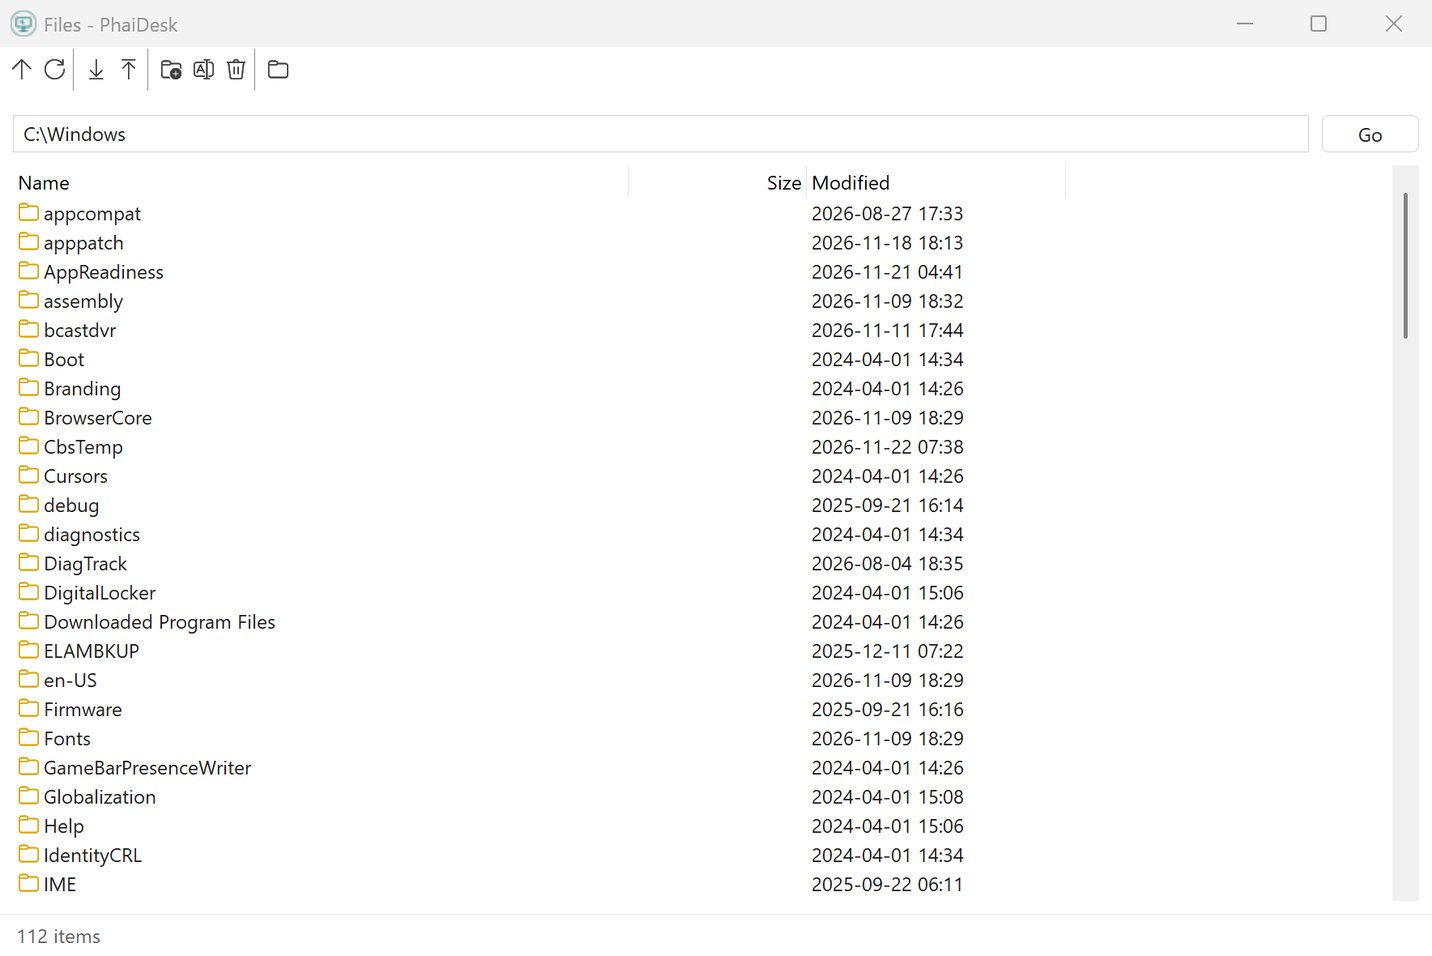
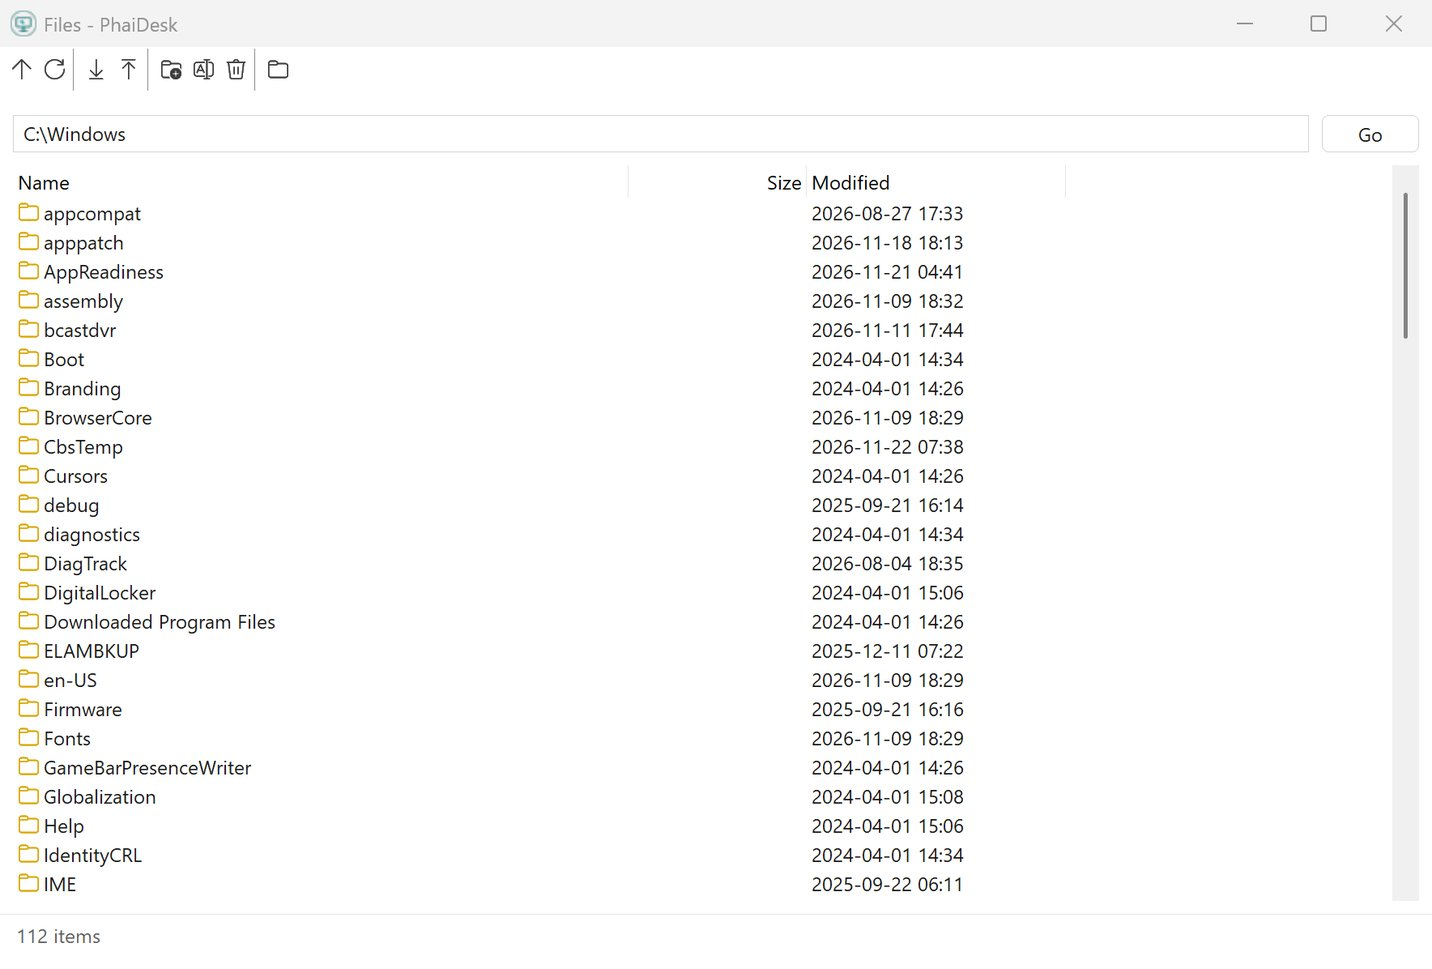
phai-studio.monrak.net: Phai Desk in the same slider as the screens - 7 pictures, each window designed in Phai Studio and then running, and its code; the lightbox walks only the clicked slider's pictures. Fixes the page stopping at Download (a loop had taken the counts' variable)

diff --git a/site/assets/site.js b/site/assets/site.js
@@ -5,12 +5,12 @@
 // (its number, name, line and points) follows.
 // It waits while the pointer or focus is on it, while it is off screen or the tab hidden, and never
 // moves by itself for a reader who asked for less motion. It never scrolls the page.
-(() => {
-    const box = document.querySelector('.slider');
+document.querySelectorAll('.gallery').forEach((gal) => {
+    const box = gal.querySelector('.slider');
     if (!box) return;
     const track = box.querySelector('.slides');
     const slides = [...track.querySelectorAll('.slide')];
-    const cap = document.getElementById('shot-caption');
+    const cap = gal.querySelector('.shot-info');
     const n = slides.length;
     const EVERY = 5000;
     let at = 0;
@@ -51,42 +51,14 @@
         const dx = e.changedTouches[0].clientX - x0;
         if (Math.abs(dx) > 40) { go(at + (dx < 0 ? 1 : -1)); start(); }
     });
-})();
-
-// Phai Desk's windows: one fades into the next every few seconds (not under the pointer, off screen,
-// or for less motion); the dots choose one.
-(() => {
-    const box = document.querySelector('.made-shots');
-    if (!box) return;
-    const shots = [...box.querySelectorAll('.made-shot')];
-    const dots = [...box.querySelectorAll('.made-dots button')];
-    const cap = box.querySelector('.made-cap');
-    let at = 0, held = false, seen = false, timer = 0;
-    const go = (i) => {
-        at = (i + shots.length) % shots.length;
-        shots.forEach((s, k) => s.classList.toggle('on', k === at));
-        dots.forEach((d, k) => d.classList.toggle('on', k === at));
-        cap.textContent = shots[at].dataset.caption;
-        const next = shots[(at + 1) % shots.length].querySelector('img');
-        if (next) next.loading = 'eager';
-    };
-    const still = window.matchMedia('(prefers-reduced-motion: reduce)');
-    const start = () => {
-        clearInterval(timer);
-        if (!still.matches && !held && seen && !document.hidden) timer = setInterval(() => go(at + 1), 4500);
-    };
-    dots.forEach((d, k) => d.onclick = () => { go(k); start(); });
-    box.addEventListener('mouseenter', () => { held = true; start(); });
-    box.addEventListener('mouseleave', () => { held = false; start(); });
-    document.addEventListener('visibilitychange', start);
-    new IntersectionObserver((es) => { seen = es[0].isIntersecting; start(); }, { threshold: 0.3 }).observe(box);
-})();
+});
 
 // gallery: a picture opens large; arrows or keys move, Esc or a click outside closes
 (() => {
-    const links = [...document.querySelectorAll('[data-gallery]')];
+    const all = [...document.querySelectorAll('[data-gallery]')];
     const box = document.getElementById('lightbox');
-    if (!box || !links.length) return;
+    if (!box || !all.length) return;
+    let links = all;
     const img = box.querySelector('img');
     const cap = box.querySelector('.lb-caption');
     const stage = box.querySelector('.lb-stage');
@@ -97,9 +69,10 @@
         img.alt = cap.textContent = links[at].dataset.caption + '  (' + (at + 1) + ' / ' + links.length + ')';
     };
     const close = () => { box.hidden = true; document.body.style.overflow = ''; };
-    links.forEach((a, i) => a.addEventListener('click', (e) => {
+    all.forEach((a) => a.addEventListener('click', (e) => {
         e.preventDefault();
-        show(i);
+        links = all.filter((x) => x.dataset.gallery === a.dataset.gallery);
+        show(links.indexOf(a));
         box.hidden = false;
         document.body.style.overflow = 'hidden';
     }));

diff --git a/site/assets/site.css b/site/assets/site.css
@@ -237,9 +237,6 @@ h3.part .ti { color: var(--green); font-size: 1.3rem; }
 h3.part + .muted { margin: 0 0 16px; }
 .card.tool .icon img { width: 26px; height: 26px; }
 .card.tool p { font-size: .92rem; }
-.card.made { display: grid; grid-template-columns: 3fr 2fr; gap: 28px; align-items: center; }
-.made-shot img { display: block; width: 100%; height: auto; border-radius: 10px; border: 1px solid var(--line); box-shadow: 0 12px 32px rgba(15, 60, 40, .12); }
-@media (max-width: 760px) { .card.made { grid-template-columns: 1fr; } }
 /* The guide's cards: the icon on the left, the name and what it is beside it. */
 #learn .card.lesson { display: grid; grid-template-columns: 44px 1fr; grid-template-rows: auto auto; align-content: center; column-gap: 14px; }
 #learn .card.lesson .icon { grid-row: 1 / 3; align-self: center; margin-bottom: 0; }
@@ -278,15 +275,9 @@ h3.part + .muted { margin: 0 0 16px; }
 @media (prefers-reduced-motion: reduce) { .shot-info.fresh > * { animation: none; } }
 @media (max-width: 860px) { .gallery { grid-template-columns: 1fr; gap: 18px; } .shot-info { min-height: 0; } }
 .slider { overflow: clip; clip-path: inset(0 round var(--radius)); }
-/* Phai Desk: its windows one after another, a line under each; then the guide's example programs. */
-.made-shots { position: relative; display: grid; }
-.made-shots .made-shot { grid-area: 1 / 1; opacity: 0; visibility: hidden; transition: opacity .6s ease, visibility 0s .6s; }
-.made-shots .made-shot.on { opacity: 1; visibility: visible; transition: opacity .6s ease; }
-.made-shots .made-shot img { aspect-ratio: 1432 / 980; object-fit: contain; object-position: center top; background: transparent; box-shadow: none; border: 0; }
-.made-cap { grid-area: 2 / 1; margin: 12px 0 0; color: var(--muted); font-size: .92rem; min-height: 3em; }
-.made-dots { grid-area: 3 / 1; display: flex; gap: 6px; }
-.made-dots button { width: 8px; height: 8px; padding: 0; border: 0; border-radius: 4px; background: #c9ddd2; cursor: pointer; transition: width .3s, background .3s; }
-.made-dots button.on { width: 22px; background: var(--green); }
+/* Phai Desk: one line about it, then the same slider as the screens. */
+.made-lead { margin: -8px 0 22px; max-width: 70ch; color: var(--muted); }
+.made-lead b { color: var(--ink); }
 .grid.demos { grid-auto-rows: auto; }
 .card.demo { display: flex; flex-direction: column; gap: 2px; padding: 10px 10px 12px; }
 .card.demo .demo-shot { display: block; aspect-ratio: 840 / 578; margin-bottom: 8px; overflow: hidden; border-radius: 8px; border: 1px solid var(--line); background: #fff; }

diff --git a/site/index.php b/site/index.php
@@ -107,11 +107,23 @@ $T = $th ? [
     'madeH' => 'สร้างด้วย Phai Studio', 'madeSub' => 'โปรแกรมจริงที่ออกแบบและเขียนด้วย Phai Studio ทั้งตัว',
     'madeName' => 'คอนโซลของ Phai Desk', 'madeP' => 'โปรแกรมรีโมทและดูแลคอมพิวเตอร์ในสำนักงาน ทั้ง 7 หน้าต่าง (รายการเครื่อง ดูจอ ส่งไฟล์ แชท โปรแกรมในเครื่อง log) ออกแบบด้วยการลากวางใน Phai Studio แล้วทำตัวติดตั้งด้วย Publish',
     'madeLink' => 'รู้จัก Phai Desk',
-    'madeShots' => [
-        ['desk-main', 'คอมพิวเตอร์ทุกเครื่องในสำนักงาน: สีเขียวออนไลน์ สีเทาปิดอยู่ สีแดงกำลังขอความช่วยเหลือ คลิกขวาเพื่อรีโมท แชท หรือเปิดไฟล์'],
-        ['phaidesk', 'โปรแกรมในเครื่อง: รายการทุกโปรแกรมที่ลงไว้ ค้นหาได้'],
-        ['desk-files', 'ไฟล์: เปิดดู ดาวน์โหลด อัปโหลด และจัดการไฟล์ของเครื่องที่ดูแล'],
-        ['desk-project', 'โปรเจกต์ Phai Desk ใน Phai Studio: ทุกหน้าต่างออกแบบด้วยการลากวาง'],
+    'deskShots' => [
+        ['desk-main', 'คอมทุกเครื่องในสำนักงาน', 'หน้าต่างหลักของ Phai Desk ตอนโปรแกรมทำงาน'],
+        ['desk-design-software', 'ออกแบบหน้าต่าง "โปรแกรมในเครื่อง"', 'หน้าต่างเดียวกันนี้ในตัวออกแบบของ Phai Studio'],
+        ['phaidesk', 'โปรแกรมในเครื่อง ตอนทำงานจริง', 'ฟอร์มที่ออกแบบไว้ กลายเป็นโปรแกรมที่อ่านรายการจริงของเครื่อง'],
+        ['desk-design-files', 'ออกแบบหน้าต่าง "ไฟล์"', 'แถบเครื่องมือ ช่องที่อยู่ และรายการไฟล์'],
+        ['desk-files', 'ไฟล์ ตอนทำงานจริง', 'เปิดดูไฟล์ของเครื่องที่ดูแลอยู่'],
+        ['desk-code', 'โค้ดของหน้าต่าง "ไฟล์"', 'เขียน Rust ในตัวแก้โค้ดของ Phai Studio'],
+        ['desk-project', 'หน้าต่างแชท ในตัวออกแบบ', 'ทั้ง 7 หน้าต่างของ Phai Desk เป็นไฟล์ .phaiform ในโปรเจกต์เดียว'],
+    ],
+    'deskMore' => [
+        'desk-main' => ['ไอคอนเขียว = ออนไลน์ เทา = ปิดอยู่ แดง = ขอความช่วยเหลือ', 'ใต้ไอคอนบอกชื่อเครื่องและคนที่ใช้อยู่', 'คลิกขวาเพื่อรีโมทดูจอ แชท หรือเปิดไฟล์'],
+        'desk-design-software' => ['ลากช่องค้นหา ป้าย และตารางลงบนฟอร์ม', 'ตารางแสดงข้อมูลตัวอย่างระหว่างออกแบบ', 'ไฟล์ทั้งหมดของ Phai Desk อยู่ในหน้าต่าง Project ทางขวา'],
+        'phaidesk' => ['ทุกโปรแกรมที่ลงไว้ พร้อมรุ่นและผู้ผลิต', 'พิมพ์ในช่องค้นหาแล้วกรองทันที', 'โค้ดที่อ่านรายการเขียนด้วย Rust ในไฟล์ของฟอร์มนั้น'],
+        'desk-design-files' => ['ปุ่มขึ้นโฟลเดอร์ ดาวน์โหลด อัปโหลด และลบ อยู่บนแถบเครื่องมือ', 'กล่องเลือกไฟล์สำหรับอัปโหลดวางไว้ใต้ฟอร์ม', 'ตั้งค่าทุกอย่างในหน้าต่าง Properties'],
+        'desk-files' => ['ดับเบิลคลิกเพื่อเข้าโฟลเดอร์', 'ดาวน์โหลด อัปโหลด และลบไฟล์', 'แถบล่างบอกจำนวนรายการ'],
+        'desk-code' => ['หน้าตาอยู่ใน files_form_ui.rs ที่ Phai Studio เขียนให้เอง', 'ส่วนที่ทำงานเขียนเองใน files_form.rs', 'บอกจำนวนที่ถูกใช้ เติมคำ และไปยังที่ประกาศ ด้วย rust-analyzer'],
+        'desk-project' => ['ช่องข้อความ ช่องพิมพ์ และปุ่มส่ง ลากวางเสร็จในไม่กี่นาที', 'Build และ Debug ได้จากเมนูเดียวกัน', 'Publish ทำตัวติดตั้งของ Phai Desk ให้'],
     ],
     'demosH' => 'โปรแกรมตัวอย่างในคู่มือ', 'demosSub' => '42 โปรแกรมเล็ก ๆ หนึ่งโปรแกรมต่อหนึ่งเครื่องมือ ทุกตัว build ได้จริง พร้อมโค้ดให้ลองแก้ - กดดูวิธีเขียน',
     'demos' => [
@@ -288,11 +300,23 @@ $T = $th ? [
     'madeH' => 'Made with Phai Studio', 'madeSub' => 'A real program designed and written in Phai Studio from start to finish',
     'madeName' => 'The Phai Desk console', 'madeP' => 'Remote support and care for the office\'s computers: all 7 of its windows (the computers, the remote screen, files, chat, this computer\'s software and log) designed by drag and drop in Phai Studio, and its installer made with Publish',
     'madeLink' => 'About Phai Desk',
-    'madeShots' => [
-        ['desk-main', 'Every computer in the office: green online, grey off, red asking for help; right-click to take over the screen, chat or open its files'],
-        ['phaidesk', 'Software on a computer: everything installed, with a search'],
-        ['desk-files', 'Files: browse, download, upload and manage the files of a computer in care'],
-        ['desk-project', 'The Phai Desk project in Phai Studio: every window designed by drag and drop'],
+    'deskShots' => [
+        ['desk-main', 'Every computer in the office', 'Phai Desk\'s main window, running'],
+        ['desk-design-software', 'Designing "Software on this computer"', 'The same window in Phai Studio\'s designer'],
+        ['phaidesk', 'Software on this computer, running', 'The form designed above, now reading the computer\'s real list'],
+        ['desk-design-files', 'Designing "Files"', 'A toolbar, an address box and the list of files'],
+        ['desk-files', 'Files, running', 'The files of the computer in care'],
+        ['desk-code', 'The code of "Files"', 'Rust in Phai Studio\'s code editor'],
+        ['desk-project', 'The chat window in the designer', 'All 7 of Phai Desk\'s windows are .phaiform files in one project'],
+    ],
+    'deskMore' => [
+        'desk-main' => ['Green = online, grey = off, red = asking for help', 'Under each icon: the computer\'s name and who is using it', 'Right-click to see its screen, chat or open its files'],
+        'desk-design-software' => ['A search box, a label and a grid dragged onto the form', 'The grid shows sample rows while you design', 'All of Phai Desk\'s files in the Project window on the right'],
+        'phaidesk' => ['Everything installed, with its version and publisher', 'Type in the search box and the list narrows at once', 'The code that reads the list is Rust in the form\'s own file'],
+        'desk-design-files' => ['Up, download, upload and delete on the toolbar', 'The file chooser for uploads sits under the form', 'Everything set in the Properties window'],
+        'desk-files' => ['Double-click to open a folder', 'Download, upload and delete', 'The bar at the bottom counts the items'],
+        'desk-code' => ['Its look is in files_form_ui.rs, which Phai Studio writes', 'What it does is in files_form.rs, written by hand', 'Reference counts, completion and go to definition, with rust-analyzer'],
+        'desk-project' => ['The messages, the typing box and Send: a few minutes of drag and drop', 'Build and Debug from the same menus', 'Publish makes Phai Desk\'s installer'],
     ],
     'demosH' => 'Example programs in the guide', 'demosSub' => '42 small programs, one for each tool, each building as it stands, with its code to change - click to see how it is written',
     'demos' => [
@@ -454,6 +478,32 @@ $T = $th ? [
         ['https://www.monrak.net/', 'Monrak Net', 'A love of the internet since 2002, and the home of the Phai family'],
     ],
 ];
+/** A slider of screenshots on the left, and beside it what the one showing is: its number, name, line and points. */
+function gallery(array $T, array $shots, array $more, string $group, string $after = ''): string
+{
+    ob_start(); ?>
+        <div class="gallery">
+            <div class="slider">
+                <div class="slides">
+                    <?php foreach ($shots as $i => [$f, $h, $p]): ?>
+                        <a class="slide" href="<?= v("shots/$f.jpg") ?>" data-gallery="<?= $group ?>" data-caption="<?= e("$h — $p") ?>" data-h="<?= e($h) ?>" data-p="<?= e($p) ?>" data-more="<?= e(json_encode($more[$f] ?? [], JSON_UNESCAPED_UNICODE)) ?>"><img src="<?= v("shots/$f.jpg") ?>" alt="<?= e($h) ?>" width="1432" height="969" loading="<?= $i ? 'lazy' : 'eager' ?>"></a>
+                    <?php endforeach ?>
+                </div>
+                <button type="button" class="nav-btn sl-prev" aria-label="<?= e($T['prev']) ?>"><i class="ti ti-chevron-left"></i></button>
+                <button type="button" class="nav-btn sl-next" aria-label="<?= e($T['next']) ?>"><i class="ti ti-chevron-right"></i></button>
+                <span class="zoom"><i class="ti ti-photo"></i> <?= e($T['zoom']) ?></span>
+            </div>
+            <div class="shot-info" aria-live="polite">
+                <span class="shot-n"><b>01</b> / <?= sprintf('%02d', count($shots)) ?></span>
+                <h3><?= e($shots[0][1]) ?></h3>
+                <p><?= e($shots[0][2]) ?></p>
+                <ul><?php foreach ($more[$shots[0][0]] ?? [] as $m): ?><li><?= e($m) ?></li><?php endforeach ?></ul>
+                <?= $after ?>
+            </div>
+        </div>
+<?php return ob_get_clean();
+}
+
 $base = 'https://phai-studio.monrak.net/';
 ?><!doctype html>
 <html lang="<?= $lang ?>">
@@ -519,24 +569,7 @@ $base = 'https://phai-studio.monrak.net/';
         <span class="label">Real screens</span>
         <h2><?= e($T['shotsH']) ?></h2>
         <p class="sub"><?= e($T['shotsSub']) ?></p>
-        <div class="gallery">
-            <div class="slider">
-                <div class="slides">
-                    <?php foreach ($T['shots'] as $i => [$f, $h, $p]): ?>
-                        <a class="slide" href="<?= v("shots/$f.jpg") ?>" data-gallery data-caption="<?= e("$h — $p") ?>" data-h="<?= e($h) ?>" data-p="<?= e($p) ?>" data-more="<?= e(json_encode($T['shotMore'][$f] ?? [], JSON_UNESCAPED_UNICODE)) ?>"><img src="<?= v("shots/$f.jpg") ?>" alt="<?= e($h) ?>" width="1432" height="969" loading="<?= $i ? 'lazy' : 'eager' ?>"></a>
-                    <?php endforeach ?>
-                </div>
-                <button type="button" class="nav-btn sl-prev" aria-label="<?= e($T['prev']) ?>"><i class="ti ti-chevron-left"></i></button>
-                <button type="button" class="nav-btn sl-next" aria-label="<?= e($T['next']) ?>"><i class="ti ti-chevron-right"></i></button>
-                <span class="zoom"><i class="ti ti-photo"></i> <?= e($T['zoom']) ?></span>
-            </div>
-            <div class="shot-info" id="shot-caption" aria-live="polite">
-                <span class="shot-n"><b>01</b> / <?= sprintf('%02d', count($T['shots'])) ?></span>
-                <h3><?= e($T['shots'][0][1]) ?></h3>
-                <p><?= e($T['shots'][0][2]) ?></p>
-                <ul><?php foreach ($T['shotMore'][$T['shots'][0][0]] ?? [] as $m): ?><li><?= e($m) ?></li><?php endforeach ?></ul>
-            </div>
-        </div>
+        <?= gallery($T, $T['shots'], $T['shotMore'], 'screens') ?>
     </div>
 </section>
 
@@ -568,22 +601,13 @@ $base = 'https://phai-studio.monrak.net/';
         <span class="label">Made with Phai Studio</span>
         <h2><?= e($T['madeH']) ?></h2>
         <p class="sub"><?= e($T['madeSub']) ?></p>
-        <article class="card made">
-            <div class="made-shots">
-                <?php foreach ($T['madeShots'] as $i => [$f, $c]): ?>
-                    <a class="made-shot<?= $i ? '' : ' on' ?>" href="<?= v("shots/$f.jpg") ?>" data-gallery data-caption="<?= e($c) ?>"><img src="<?= v("shots/$f.jpg") ?>" alt="<?= e($c) ?>" width="1432" height="980" loading="lazy"></a>
-                <?php endforeach ?>
-                <p class="made-cap"><?= e($T['madeShots'][0][1]) ?></p>
-                <div class="made-dots"><?php foreach ($T['madeShots'] as $i => $_): ?><button type="button" class="<?= $i ? '' : 'on' ?>" aria-label="<?= $i + 1 ?>"></button><?php endforeach ?></div>
-            </div>
-            <div><h3><?= e($T['madeName']) ?></h3><p><?= e($T['madeP']) ?></p>
-                <p class="mt"><a class="btn btn-ghost" href="https://phai-desk.monrak.net/" target="_blank" rel="noopener"><i class="ti ti-external-link"></i> <?= e($T['madeLink']) ?></a></p></div>
-        </article>
+        <p class="made-lead"><b><?= e($T['madeName']) ?></b> - <?= e($T['madeP']) ?></p>
+        <?= gallery($T, $T['deskShots'], $T['deskMore'], 'desk', '<p class="mt"><a class="btn btn-ghost" href="https://phai-desk.monrak.net/" target="_blank" rel="noopener"><i class="ti ti-external-link"></i> ' . e($T['madeLink']) . '</a></p>') ?>
         <h3 class="part mt"><i class="ti ti-apps"></i> <?= e($T['demosH']) ?></h3>
         <p class="muted"><?= e($T['demosSub']) ?></p>
         <div class="grid g4 demos">
-            <?php foreach ($T['demos'] as [$tag, $b, $c]): ?>
-                <a class="card demo" href="<?= $B ?>help/ctl-<?= $tag ?>.html" target="_blank" rel="noopener"><span class="demo-shot"><img src="<?= $B ?>help/img/ctl-<?= $tag ?>.png" alt="<?= e($b) ?>" loading="lazy"></span><b><?= e($b) ?></b><small><?= e($c) ?></small></a>
+            <?php foreach ($T['demos'] as [$tag, $b, $dc]): ?>
+                <a class="card demo" href="<?= $B ?>help/ctl-<?= $tag ?>.html" target="_blank" rel="noopener"><span class="demo-shot"><img src="<?= $B ?>help/img/ctl-<?= $tag ?>.png" alt="<?= e($b) ?>" loading="lazy"></span><b><?= e($b) ?></b><small><?= e($dc) ?></small></a>
             <?php endforeach ?>
         </div>
     </div>
